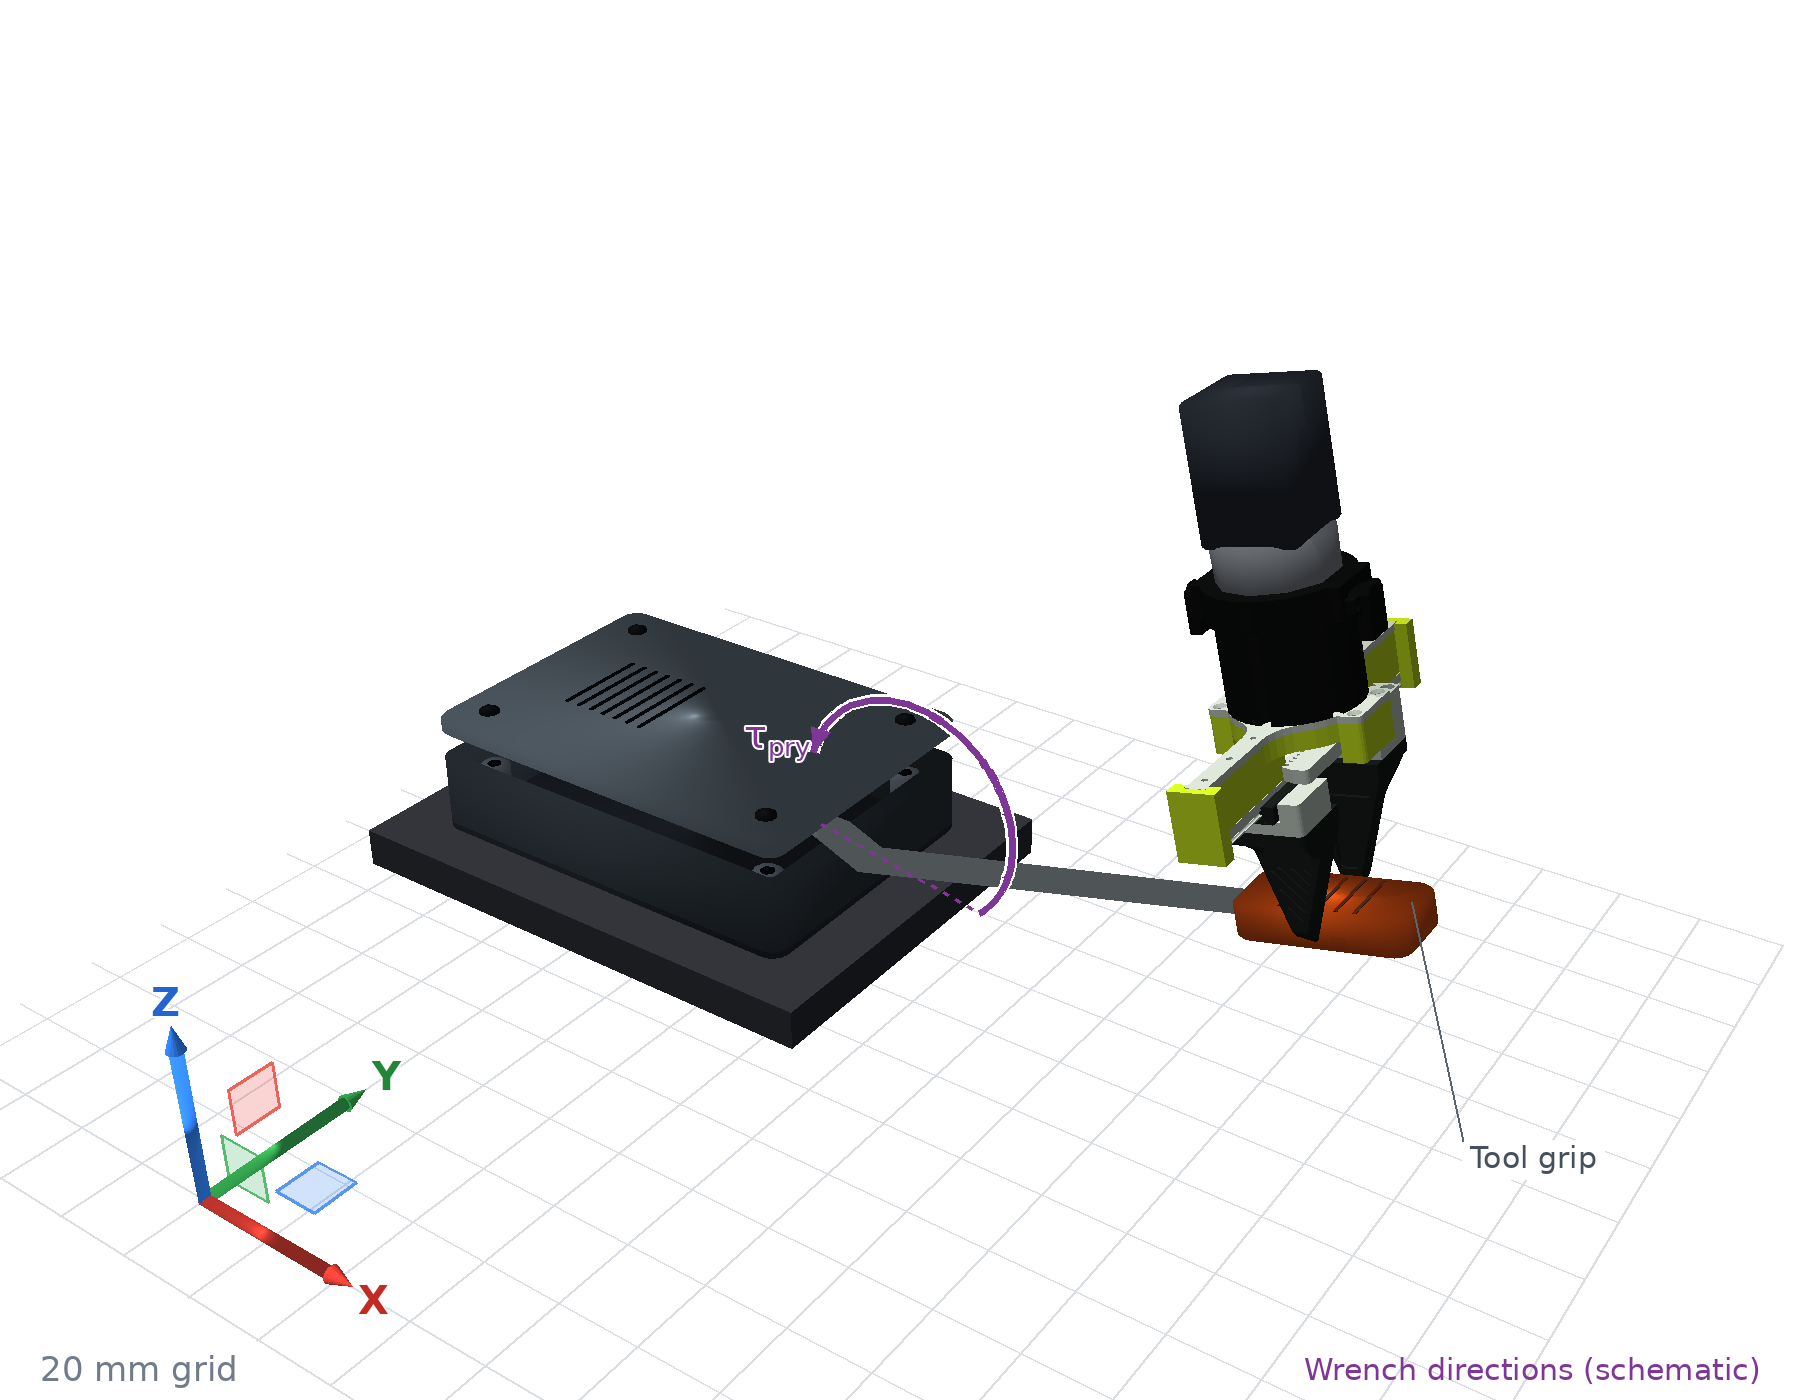
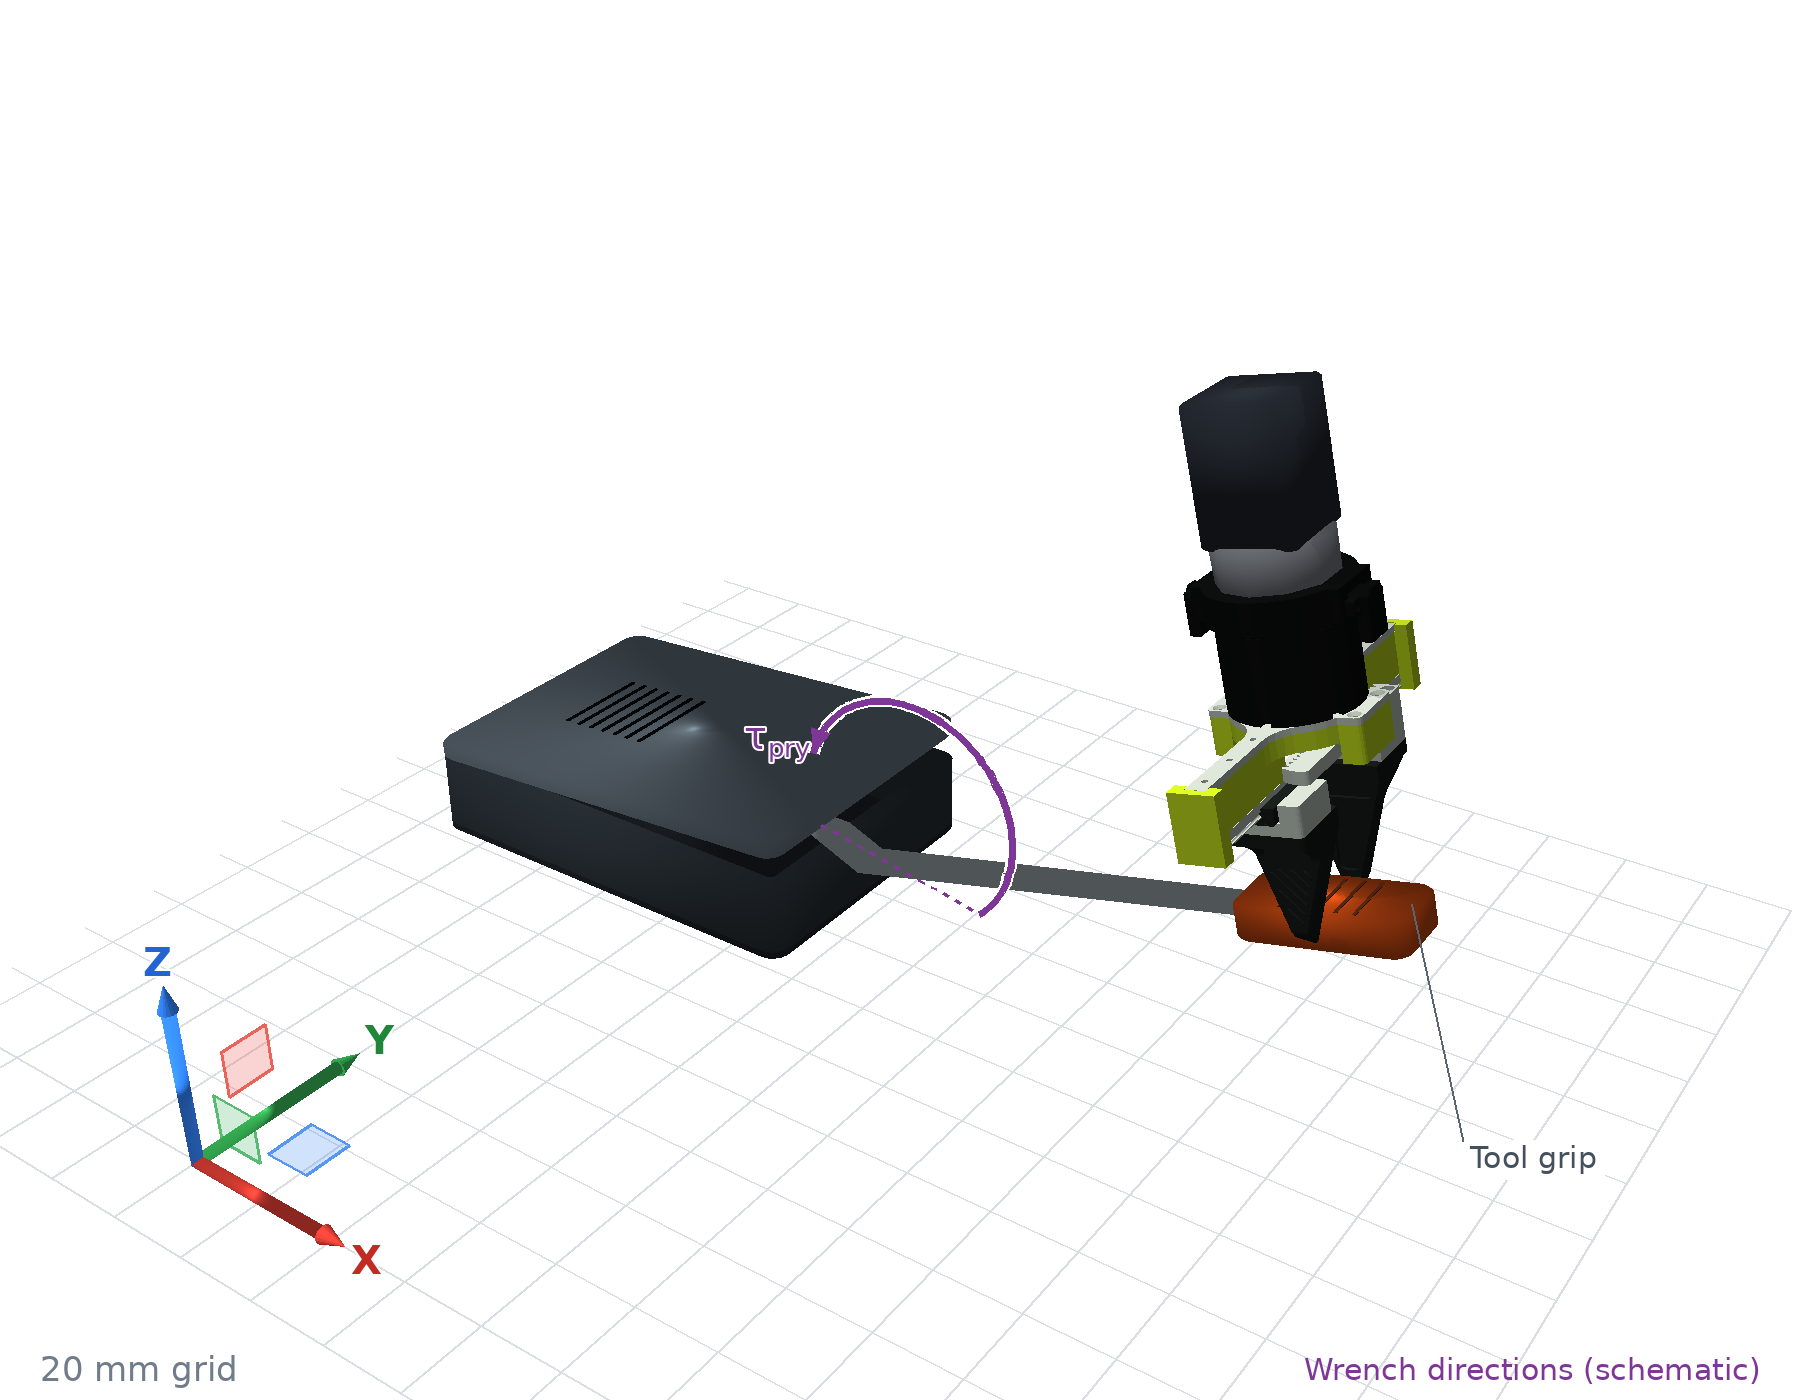
Derive one-end PRY lid opening from the recorded gap

diff --git a/scripts/render_pry_workspace_b601.py b/scripts/render_pry_workspace_b601.py
@@ -86,21 +86,25 @@ def render(*, output_dir=DEFAULT_OUTPUT_DIR, provenance_path=DEFAULT_PROVENANCE,
     theta = math.remainder(float(env.state.theta), 2 * math.pi)
     half_x, half_y, wall_top = 0.054, 0.038, 0.020
     tool_y, thickness = -0.017, 0.0045
-    # There is one translational separation coordinate, and no lid hinge state.
-    lid_q = [0, 0, 0, 1]
+    # The recorded gap is the free-edge opening; the opposite edge stays
+    # supported on the rim. This CAD support constraint derives the lid angle
+    # from gap and fixed width, without adding an independent state variable.
+    if not 0 <= gap < 2*half_x:
+        raise ValueError("PRY gap exceeds the fixed lid span")
+    lid_angle = math.asin(gap/(2*half_x))
+    lid_q = p.getQuaternionFromEuler([0,-lid_angle,0])
+    lid_rotation = np.asarray(p.getMatrixFromQuaternion(lid_q)).reshape(3,3)
+    support = np.array([-half_x,0,wall_top])
     def lid_point(local):
-        return np.asarray(local) + [0, 0, wall_top + gap]
+        return support + lid_rotation @ (np.asarray(local)+[half_x,0,0])
 
     output_dir.mkdir(parents=True, exist_ok=True)
     cid = p.connect(p.DIRECT)
     try:
-        fixture = b601.make_box(cid, [0.068, 0.051, 0.005], [0, 0, -0.005], [0.17, 0.18, 0.20, 1])
-        hollow_housing(cid, half_x, half_y, wall_top)
-        # Empty fastening bosses and a recessed cavity identify the lower shell.
-        for x in (-0.044, 0.044):
-            for y in (-0.028, 0.028):
-                b601.make_cyl(cid, 0.003, 0.014, [x, y, 0.009], [0.22, 0.25, 0.28, 1])
-                b601.make_cyl(cid, 0.0012, 0.0002, [x, y, 0.0161], [0.025, 0.03, 0.04, 1])
+        fixture = hollow_housing(cid, half_x, half_y, wall_top)
+        # Two retaining ledges at the supported end; no four-corner bolt pattern.
+        for y in (-.024,.024):
+            b601.make_box(cid,[.003,.005,.001],[-half_x+.003,y,wall_top-.001],[.24,.27,.30,1])
 
         lid_center = lid_point([0, 0, thickness / 2])
         lid = rounded_solid(
@@ -121,17 +125,14 @@ def render(*, output_dir=DEFAULT_OUTPUT_DIR, provenance_path=DEFAULT_PROVENANCE,
                 cid, 0.00065, 0.013, 0.0001, 0.0005, 0.00002, pos.tolist(), [0.035, 0.045, 0.055, 1]
             )
             p.resetBasePositionAndOrientation(vent, pos, lid_q, physicsClientId=cid)
-        for x in (-0.044, 0.044):
-            for y in (-0.028, 0.028):
-                pos = lid_point([x, y, thickness + 0.00007])
-                hole = b601.make_cyl(cid, 0.0017, 0.00014, pos.tolist(), [0.06, 0.07, 0.08, 1])
-                p.resetBasePositionAndOrientation(hole, pos, lid_q, physicsClientId=cid)
-
-        # State-to-CAD convention: local toe is the insertion/gap origin;
+        # State-to-CAD convention: toe X follows insertion, toe Z follows
+        # the underside of the supported lid at that X coordinate;
         # positive model angle rotates the shank upward about world -Y.
         # The model has no rigid-contact/fulcrum constraint. Never reshape the
         # blade or move the housing to create contact absent from these states.
-        toe_origin = np.array([half_x - insertion, tool_y, wall_top + gap])
+        toe_x = half_x-insertion
+        toe_z = wall_top + (toe_x+half_x)*math.tan(lid_angle)
+        toe_origin = np.array([toe_x,tool_y,toe_z])
         tool_q = p.getQuaternionFromEuler([0, -theta, 0])
         tool_rotation = np.asarray(p.getMatrixFromQuaternion(tool_q)).reshape(3, 3)
         stations = [
@@ -235,7 +236,7 @@ def render(*, output_dir=DEFAULT_OUTPUT_DIR, provenance_path=DEFAULT_PROVENANCE,
         ]
         Image.fromarray(image).save(output_dir / "pry_workspace_clean.png", dpi=(300, 300))
         annotated = add_coordinate_reference(
-            image, depth, view, projection, -0.0101, [-0.09, 0.24, -0.10, 0.12]
+            image, depth, view, projection, -0.0001, [-0.09, 0.24, -0.10, 0.12]
         )
         notes = [dict(
             anchor_world_m=(handle_center + tool_rotation @ [0.017, 0, 0.004]).tolist(),
@@ -265,9 +266,15 @@ def render(*, output_dir=DEFAULT_OUTPUT_DIR, provenance_path=DEFAULT_PROVENANCE,
                 "environment": binding,
                 "rendered_bodies": body_geometry(cid, fixture=fixture, lid=lid, blade=blade, handle=handle, gripper=robot),
                 "gap_m": gap,
-                "gap_reference": "vertical lid translation: env.state.position[2]",
+                "gap_reference": "free-edge vertical opening: env.state.position[2]",
+                "lid_support_edge_m": support.tolist(),
+                "lid_free_edge_m": lid_point([half_x,0,0]).tolist(),
+                "lid_angle_rad": lid_angle,
+                "lid_angle_source": "asin(env.state.position[2] / fixed lid span); opposite edge supported",
+                "lid_span_m": 2*half_x,
+                "fixture_material": "retained-edge polymer enclosure without mounting plinth",
                 "insertion_depth_m": insertion,
-                "insertion_reference": "housing outer edge to tool origin along X: env.state.position[0]",
+                "insertion_reference": "housing outer edge to tool origin along X: env.state.position[0]; toe height follows lid underside",
                 "tool_axis_angle_rad": theta,
                 "tool_rotation_source": "Ry(-env.state.theta)",
                 "toe_origin_m": toe_origin.tolist(),
